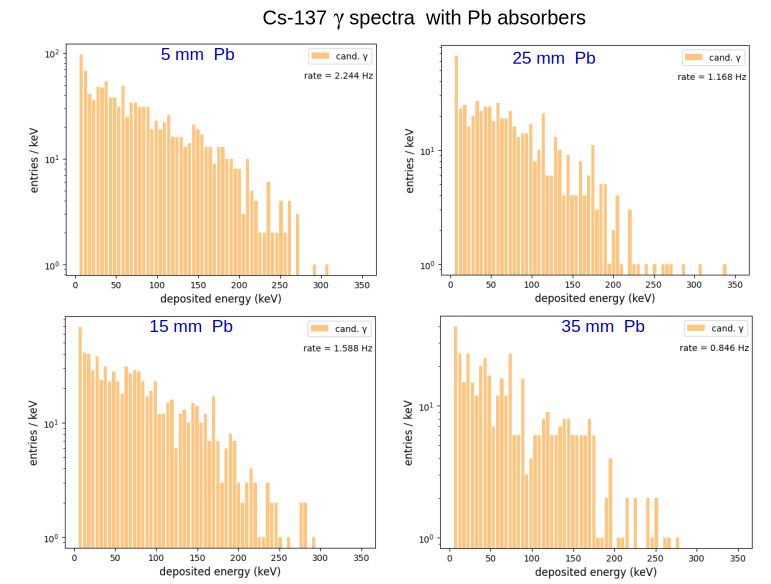
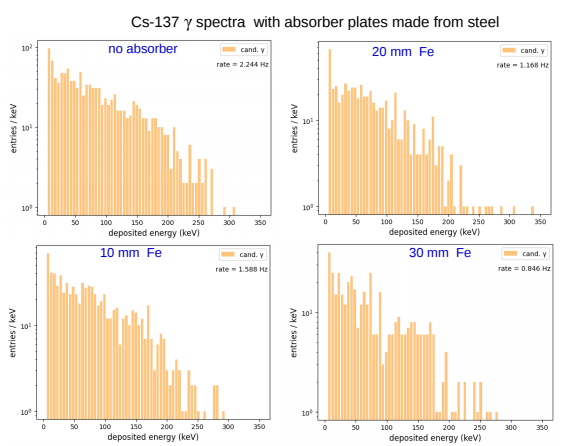
replaced apsortpion plots for Fe

Changed region(s): [[0.0, 0.0, 0.9931, 0.991]]

diff --git a/EducatorsGuide.md b/EducatorsGuide.md
@@ -771,16 +771,16 @@ This exponential behavior is confirmed in the plot below, which shows the
 measured γ rate as a function of the penetrated absorber thickness.
 
 > ![Cs-137 γ rates vs. thickness of Fe absorber plates](
-  images/gamma_absorption_Pb.png) 
+  images/gamma_absorption_Fe.png) 
 
-Note that the first absorber plate was made of lead and served to
-suppress any α and β radiation emitted by the radioactive source. 
-The measurements with at least one absorber plate behind the fist one
+Note that there was an absorber plate made of lead suppressing any 
+α and β particles emitted from the radioactive source. 
+The measurements with at least one absorber plate behind the shield
 beautifully confirm the expected exponential relationship between the
 γ rate and the absorber thickness.
 
 
-#### Variation of this experiment to classify materials
+#### Variation of the γ-absorption experiment to classify materials
 
 Once the special behavior of γ ray absorption is established experimentally,
 a variation of the experiment demonstrates how to identify materials